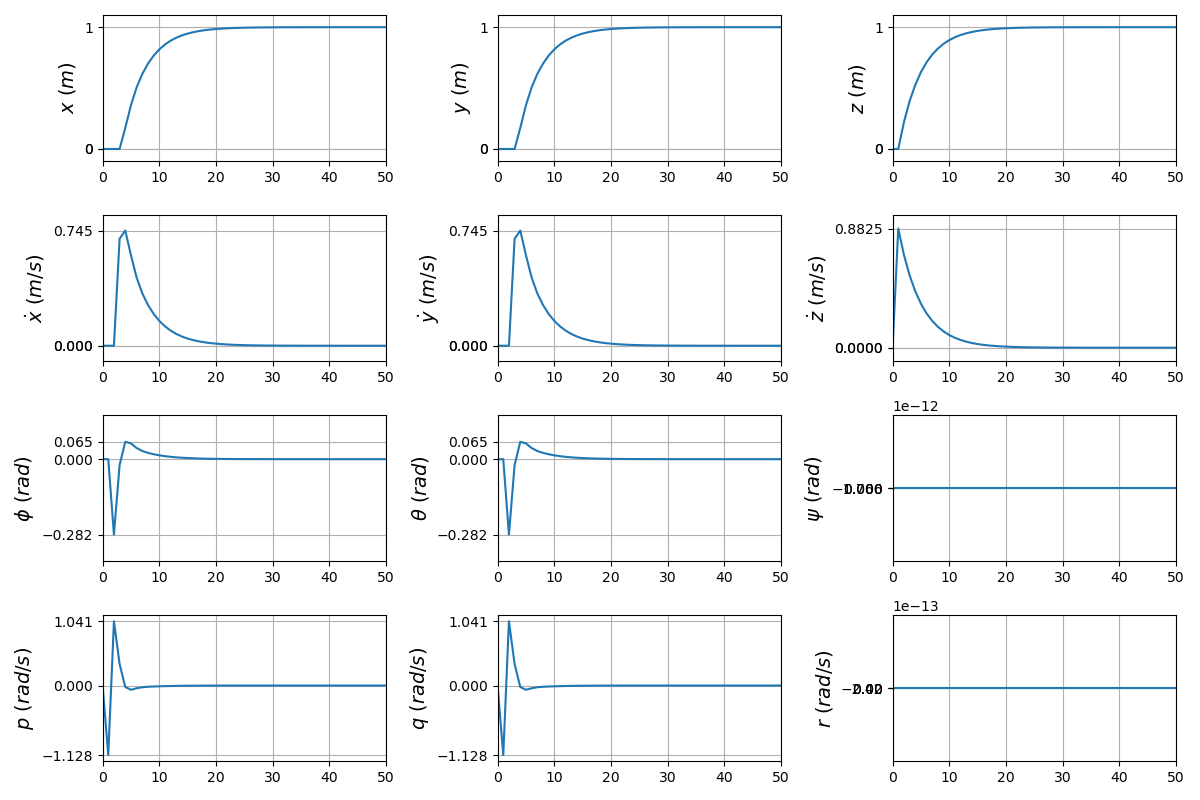
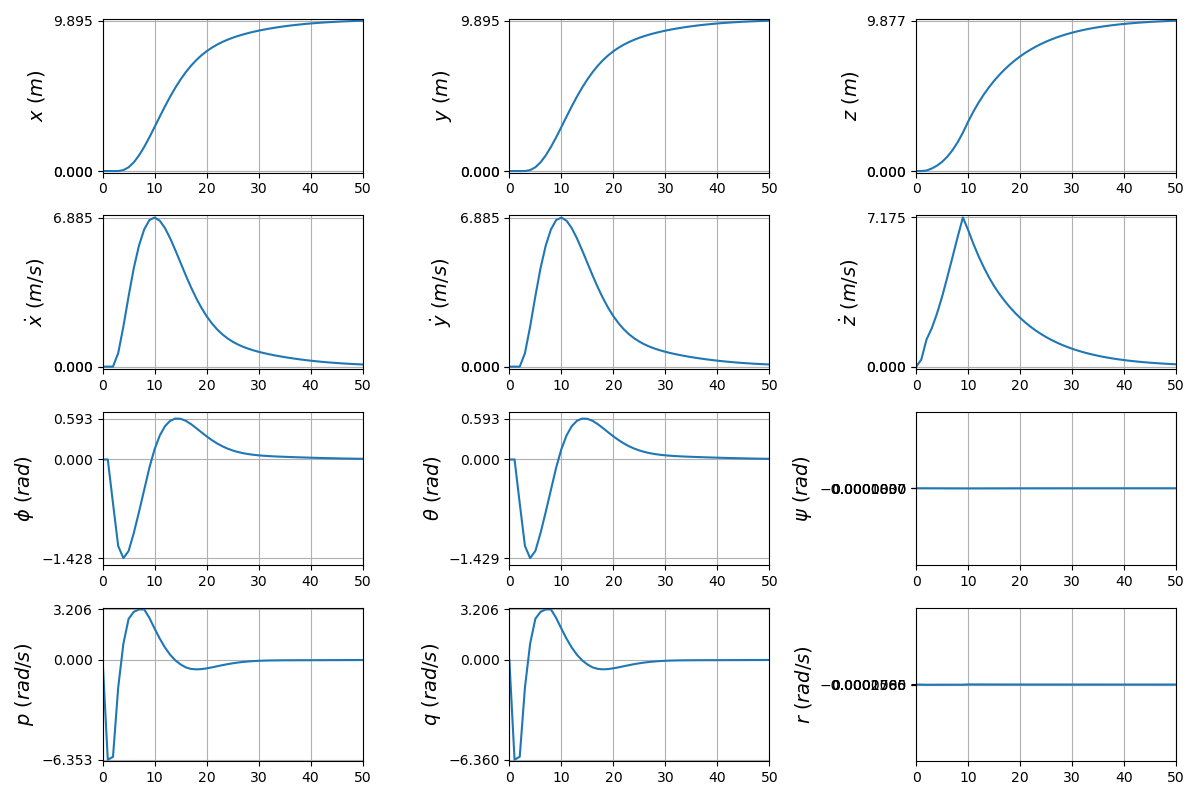
implementation of terminal set and cost, solving using gurobi

diff --git a/mpc.py b/mpc.py
@@ -2,6 +2,7 @@ import math
 import cvxpy as cp
 import numpy as np
 from math import sin, cos, tan
+from scipy import linalg as la
 from drone import drone_cf2x, drone_m_islam
 
 
@@ -10,6 +11,9 @@ class MPCControl:
         self,
         mpc_horizon=3,
         timestep_mpc_stages=0.25,
+        terminal_set_level_c=10,
+        use_terminal_set=True,
+        use_terminal_cost=True,
     ):
         """Common control classes __init__ method.
 
@@ -24,21 +28,24 @@ class MPCControl:
         """
         self.t_s = timestep_mpc_stages  # time step per stage
         self.N = mpc_horizon
+        self.c = terminal_set_level_c
+        self.use_terminal_cost = use_terminal_cost
+        self.use_terminal_set = use_terminal_set
         self._buildModelMatrices()
         self._buildMPCProblem()
 
     def _buildModelMatrices(self):
-        drone = drone_m_islam # drone_cf2x
+        drone = drone_m_islam  # drone_cf2x
 
         I_x = drone.I_x
         I_y = drone.I_y
         I_z = drone.I_z
-        l = drone.l 
+        l = drone.l
         I_r = drone.I_r
-        k_f = drone.k_f  
-        k_m = drone.k_m 
-        m = drone.m  
-        g =drone.g
+        k_f = drone.k_f
+        k_m = drone.k_m
+        m = drone.m
+        g = drone.g
         k_tx = drone.k_tx
         k_ty = drone.k_ty
         k_tz = drone.k_tz
@@ -46,7 +53,6 @@ class MPCControl:
         k_ry = drone.k_rx
         k_rz = drone.k_rx
         w_r = drone.w_r
-
 
         # matrix to convert inputs (=forces) to rpm^2
         # rpm^2 = K * u
@@ -144,11 +150,11 @@ class MPCControl:
         self.A = self.t_s * self.A + np.identity(12)
         self.B = self.t_s * self.B
 
-        # weight cost matrices
-        self.W_output = np.diag(
-            [1, 1, 1, 1, 1, 1, 0.001, 0.001, 0.001, 0.05, 0.05, 0.05]
-        )
-        self.W_input = np.identity(4) * 0.01
+        # state cost
+        self.Q = np.diag([1, 1, 1, 1, 1, 1, 0.001, 0.001, 0.001, 0.05, 0.05, 0.05])
+        self.Q = 10 * np.identity(12)
+        # input cost
+        self.R = 0.01 * np.identity(4)
 
     def _buildMPCProblem(self):
         cost = 0.0
@@ -162,14 +168,16 @@ class MPCControl:
         x = cp.Variable((12, self.N + 1), name="x")
         u = cp.Variable((4, self.N), name="u")
 
+        # Solve discrete algebraic riccatti equation to construct terminal cost from N -> inf
+        P = la.solve_discrete_are(self.A, self.B, self.Q, self.R)
+
         # For each stage in k = 0, ..., N-1
         for k in range(self.N):
             x_e = x[:, k] - x_ref
 
-            cost += cp.quad_form(x_e, self.W_output)
-
             # Cost
-            cost += cp.quad_form(u[:, k], self.W_input)
+            cost += cp.quad_form(x_e, self.Q)
+            cost += cp.quad_form(u[:, k], self.R)
 
             # System dynamics
             constraints += [x[:, k + 1] == self.A @ x[:, k] + self.B @ u[:, k]]
@@ -178,6 +186,15 @@ class MPCControl:
             constraints += [x[6:9, k] >= np.array([-math.pi, -math.pi / 2, -math.pi])]
             constraints += [x[6:9, k] <= np.array([math.pi, math.pi / 2, math.pi])]
             constraints += [self.K_inv @ u[:, k] >= -np.matmul(self.K_inv, self.u_op)]
+
+        # terminal cost addition
+        Vf = cp.quad_form(x[:, self.N] - x_ref, P)
+        if self.use_terminal_cost:
+            cost += Vf
+
+        # terminal set constraint
+        if self.use_terminal_set:
+            constraints += [Vf <= self.c]
 
         # Inital condition
         constraints += [x[:, 0] == x_init]

diff --git a/main.py b/main.py
@@ -47,12 +47,12 @@ def simulate(controller, x_init, x_target, dt=0.05, T=50, N=3, plot=False):
 
 
 if __name__ == "__main__":
-    dt = 0.25  # Sampling period
+    dt = 0.10  # Sampling period
     N = 20  # MPC Horizon
     T = 50  # Duration of simulation
     x_init = np.zeros(12)  # Initial conditions
     x_target = np.zeros(12)  # State to reach
-    x_target[0:3] = np.array([1, 1, 1])
+    x_target[0:3] = np.array([10, 10, 10])
 
     print("Initial state is ", x_init)
     print("Target state to reach is ", x_target)
@@ -61,7 +61,13 @@ if __name__ == "__main__":
     ctrl = MPCControl(
         mpc_horizon=N,
         timestep_mpc_stages=dt,
+        terminal_set_level_c=100,
+        use_terminal_set=True,
+        use_terminal_cost=True,
     )
+
+    print("Terminal cost ", ctrl.use_terminal_cost)
+    print("Terminal set ", ctrl.use_terminal_set)
 
     states, inputs, plans, timesteps = simulate(
         controller=ctrl, x_init=x_init, x_target=x_target, dt=dt, T=T, N=N, plot=True
